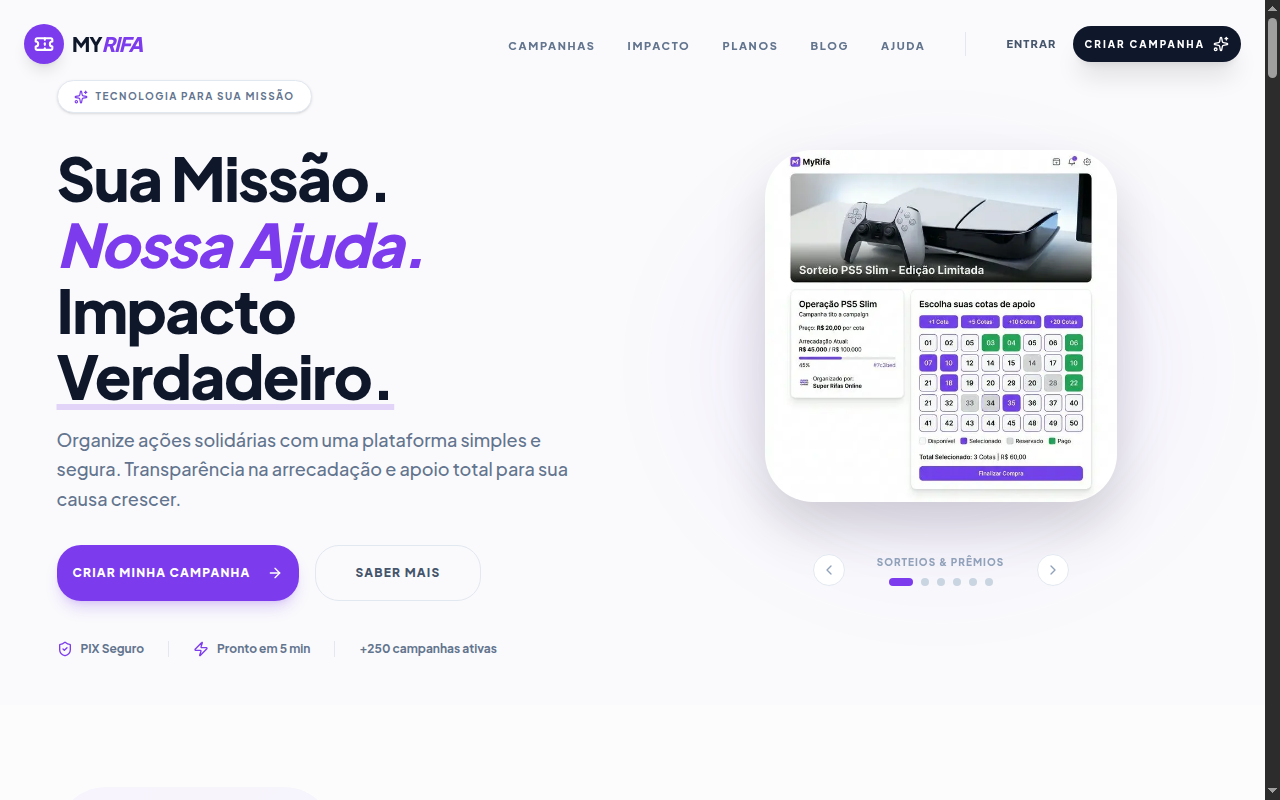
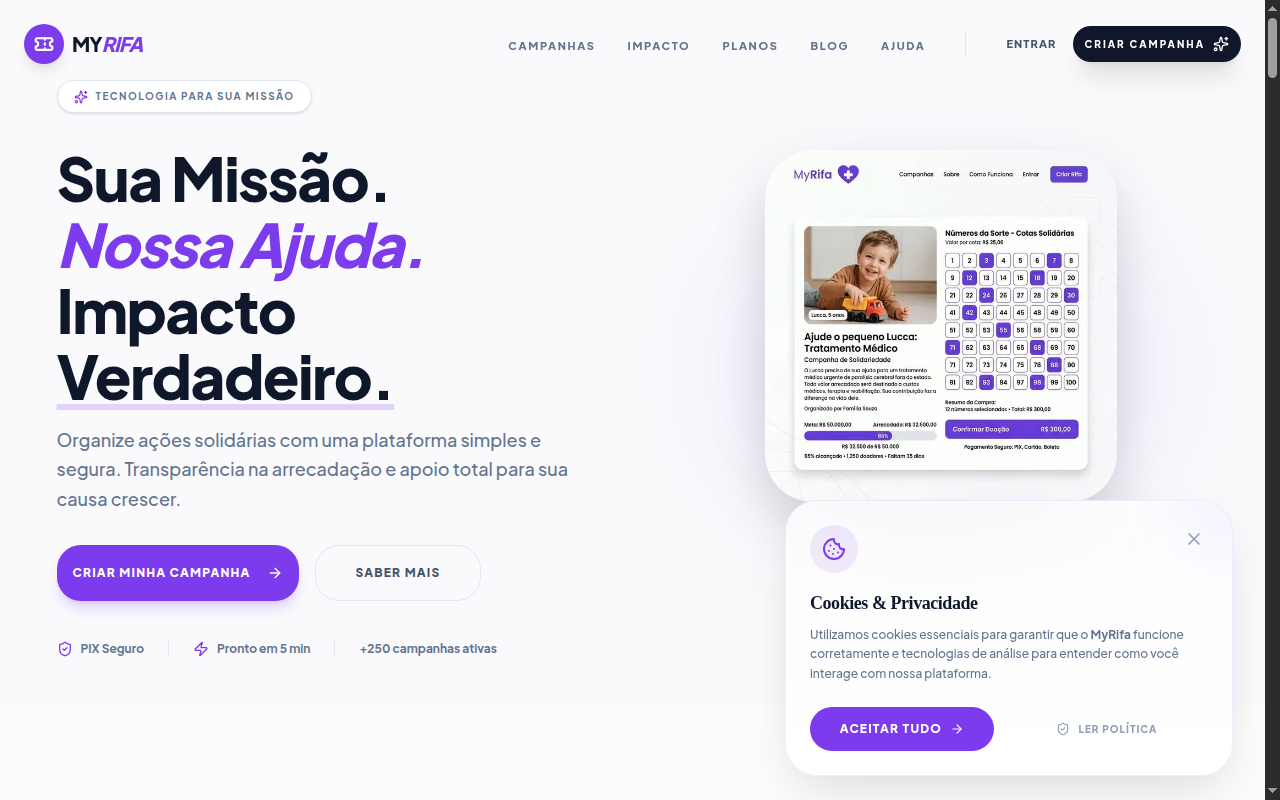
fix(portfolio): atualizar url e captura de tela do projeto MyRifa para myrifa.com.br

Changed region(s): [[0.5938, 0.1875, 0.9375, 0.8438], [0.625, 0.875, 0.7812, 0.9375], [0.8438, 0.9062, 0.9062, 0.9375]]

diff --git a/app/components/Portifolio.tsx b/app/components/Portifolio.tsx
@@ -7,13 +7,13 @@ const portfolio = [
     description:
       "SaaS completo para criação e gestão de campanhas de arrecadação com PIX automático. Suporta sorteios, vaquinhas, ações solidárias e causas comunitárias. Inclui dashboard em tempo real, blog e conformidade com LGPD.",
     tags: ["SaaS", "PIX Integrado", "Dashboard", "Next.js", "Blog"],
-    link: "https://myrifa.vercel.app",
+    link: "https://myrifa.com.br/",
     image: "/images/portfolio/myrifa.png",
   },
   {
     title: "Lena Mimos — E-commerce de Presentes Personalizados",
     description:
-      "Loja virtual completa com catálogo de 31 produtos, páginas individuais por produto, categorias, fluxo de pedido via WhatsApp e CDN próprio para imagens. Projeto real em operação em Manaus, AM.",
+      "Loja virtual completa com catálogo de produtos, páginas individuais por produto, categorias, fluxo de pedido via WhatsApp e CDN próprio para imagens. Projeto real em operação em Manaus, AM.",
     tags: ["E-commerce", "Next.js", "WhatsApp", "CDN", "SEO"],
     link: "https://lenamimos.com.br",
     image: "/images/portfolio/lenamimos.png",
